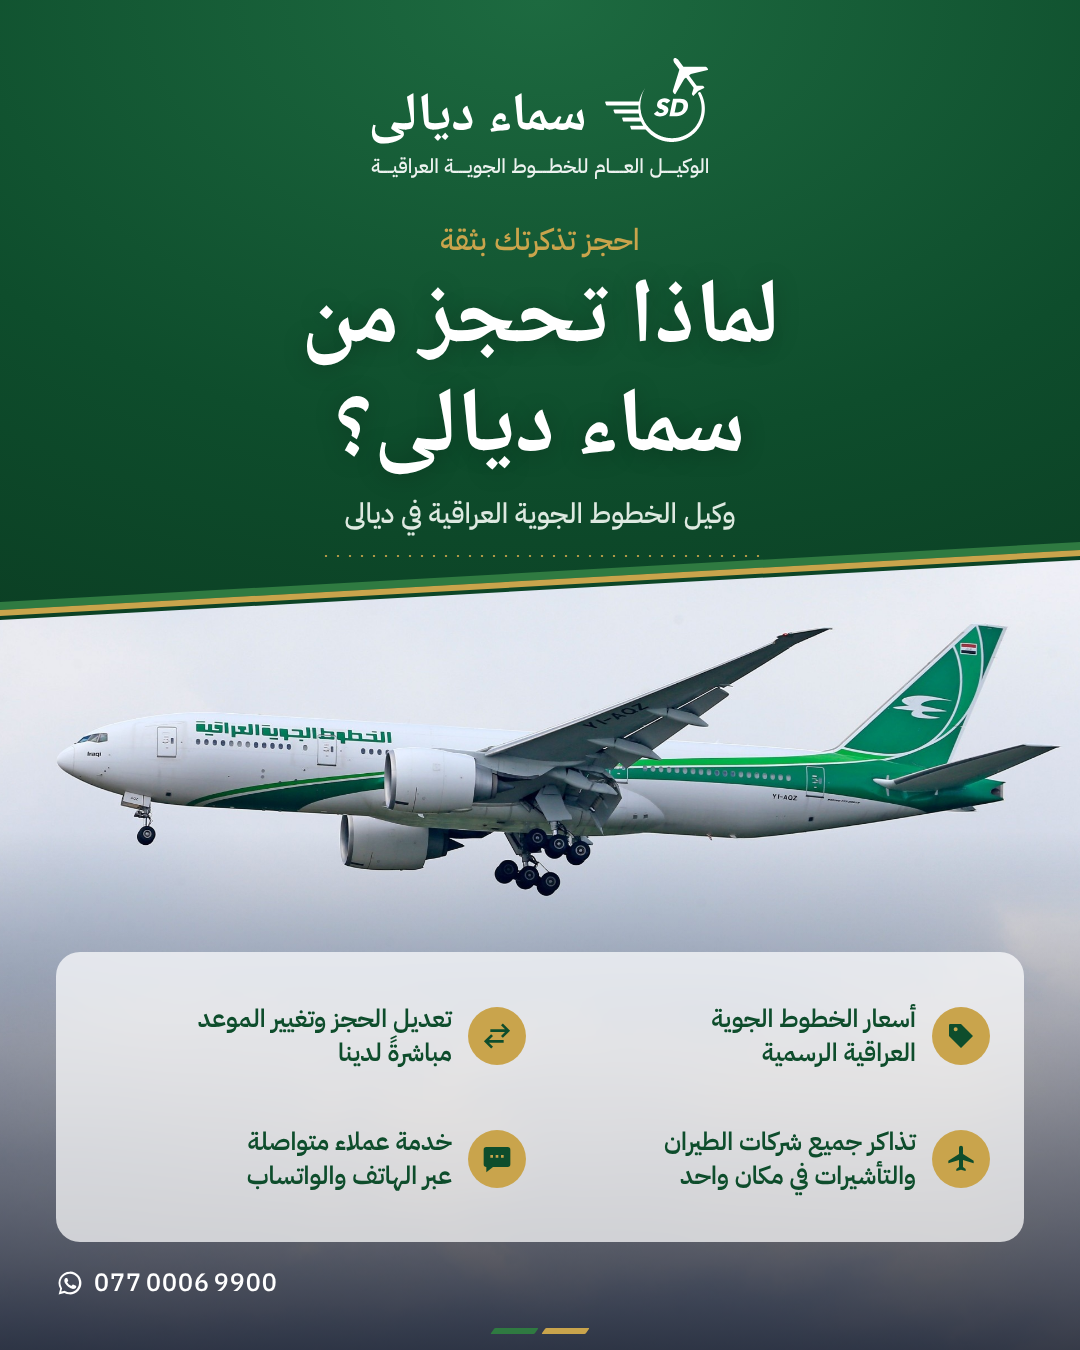
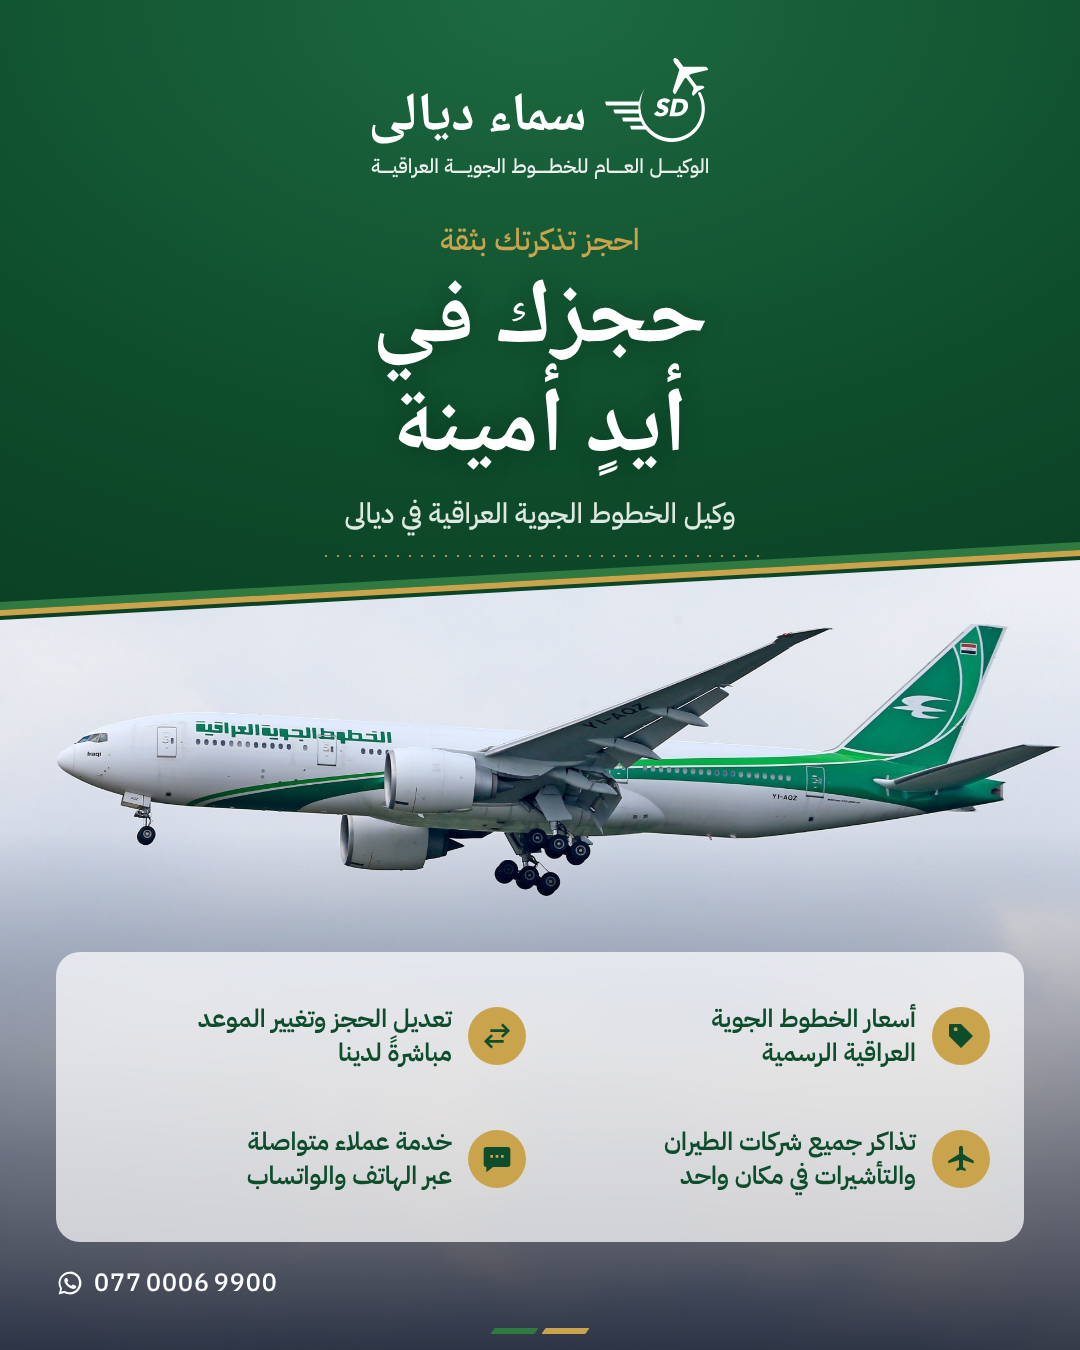
قالب الثقة: العنوان حجزك في أيدٍ أمينة
Claude-Session: https://claude.ai/code/session_01EprWPUJDuKvYHn821imCPv

Changed region(s): [[0.275, 0.1867, 0.7333, 0.3733]]

diff --git a/09-التصاميم/قالب الثقة - ليش تحجز من الوكيل العام/إعلان.html b/09-التصاميم/قالب الثقة - ليش تحجز من الوكيل العام/إعلان.html
@@ -2,7 +2,7 @@
 <html lang="ar" dir="rtl">
 <head>
 <meta charset="utf-8">
-<title>لماذا تحجز من سماء ديالى</title>
+<title>حجزك في أيدٍ أمينة</title>
 <style>
   @font-face{font-family:Naskh;font-weight:700;src:url("../../07-أدوات/خطوط/noto-naskh-arabic-arabic-700-normal.woff2")}
   @font-face{font-family:Plex;font-weight:400;src:url("../../07-أدوات/خطوط/ibm-plex-sans-arabic-arabic-400-normal.woff2");unicode-range:U+0600-06FF,U+0750-077F,U+FB50-FDFF,U+FE70-FEFF,U+200C-200E}
@@ -125,7 +125,7 @@
       <div class="tag" id="tag">الوكيــــــل العــــــام للخطــــــوط الجويــــــة العراقيـــــة</div>
     </div>
     <div class="kicker">احجز تذكرتك بثقة</div>
-    <div class="dest">لماذا تحجز من<br>سماء ديالى؟</div>
+    <div class="dest">حجزك في<br>أيدٍ أمينة</div>
     <div class="sub">وكيل الخطوط الجوية العراقية في ديالى</div>
     <div class="perf"></div>
   </div>
